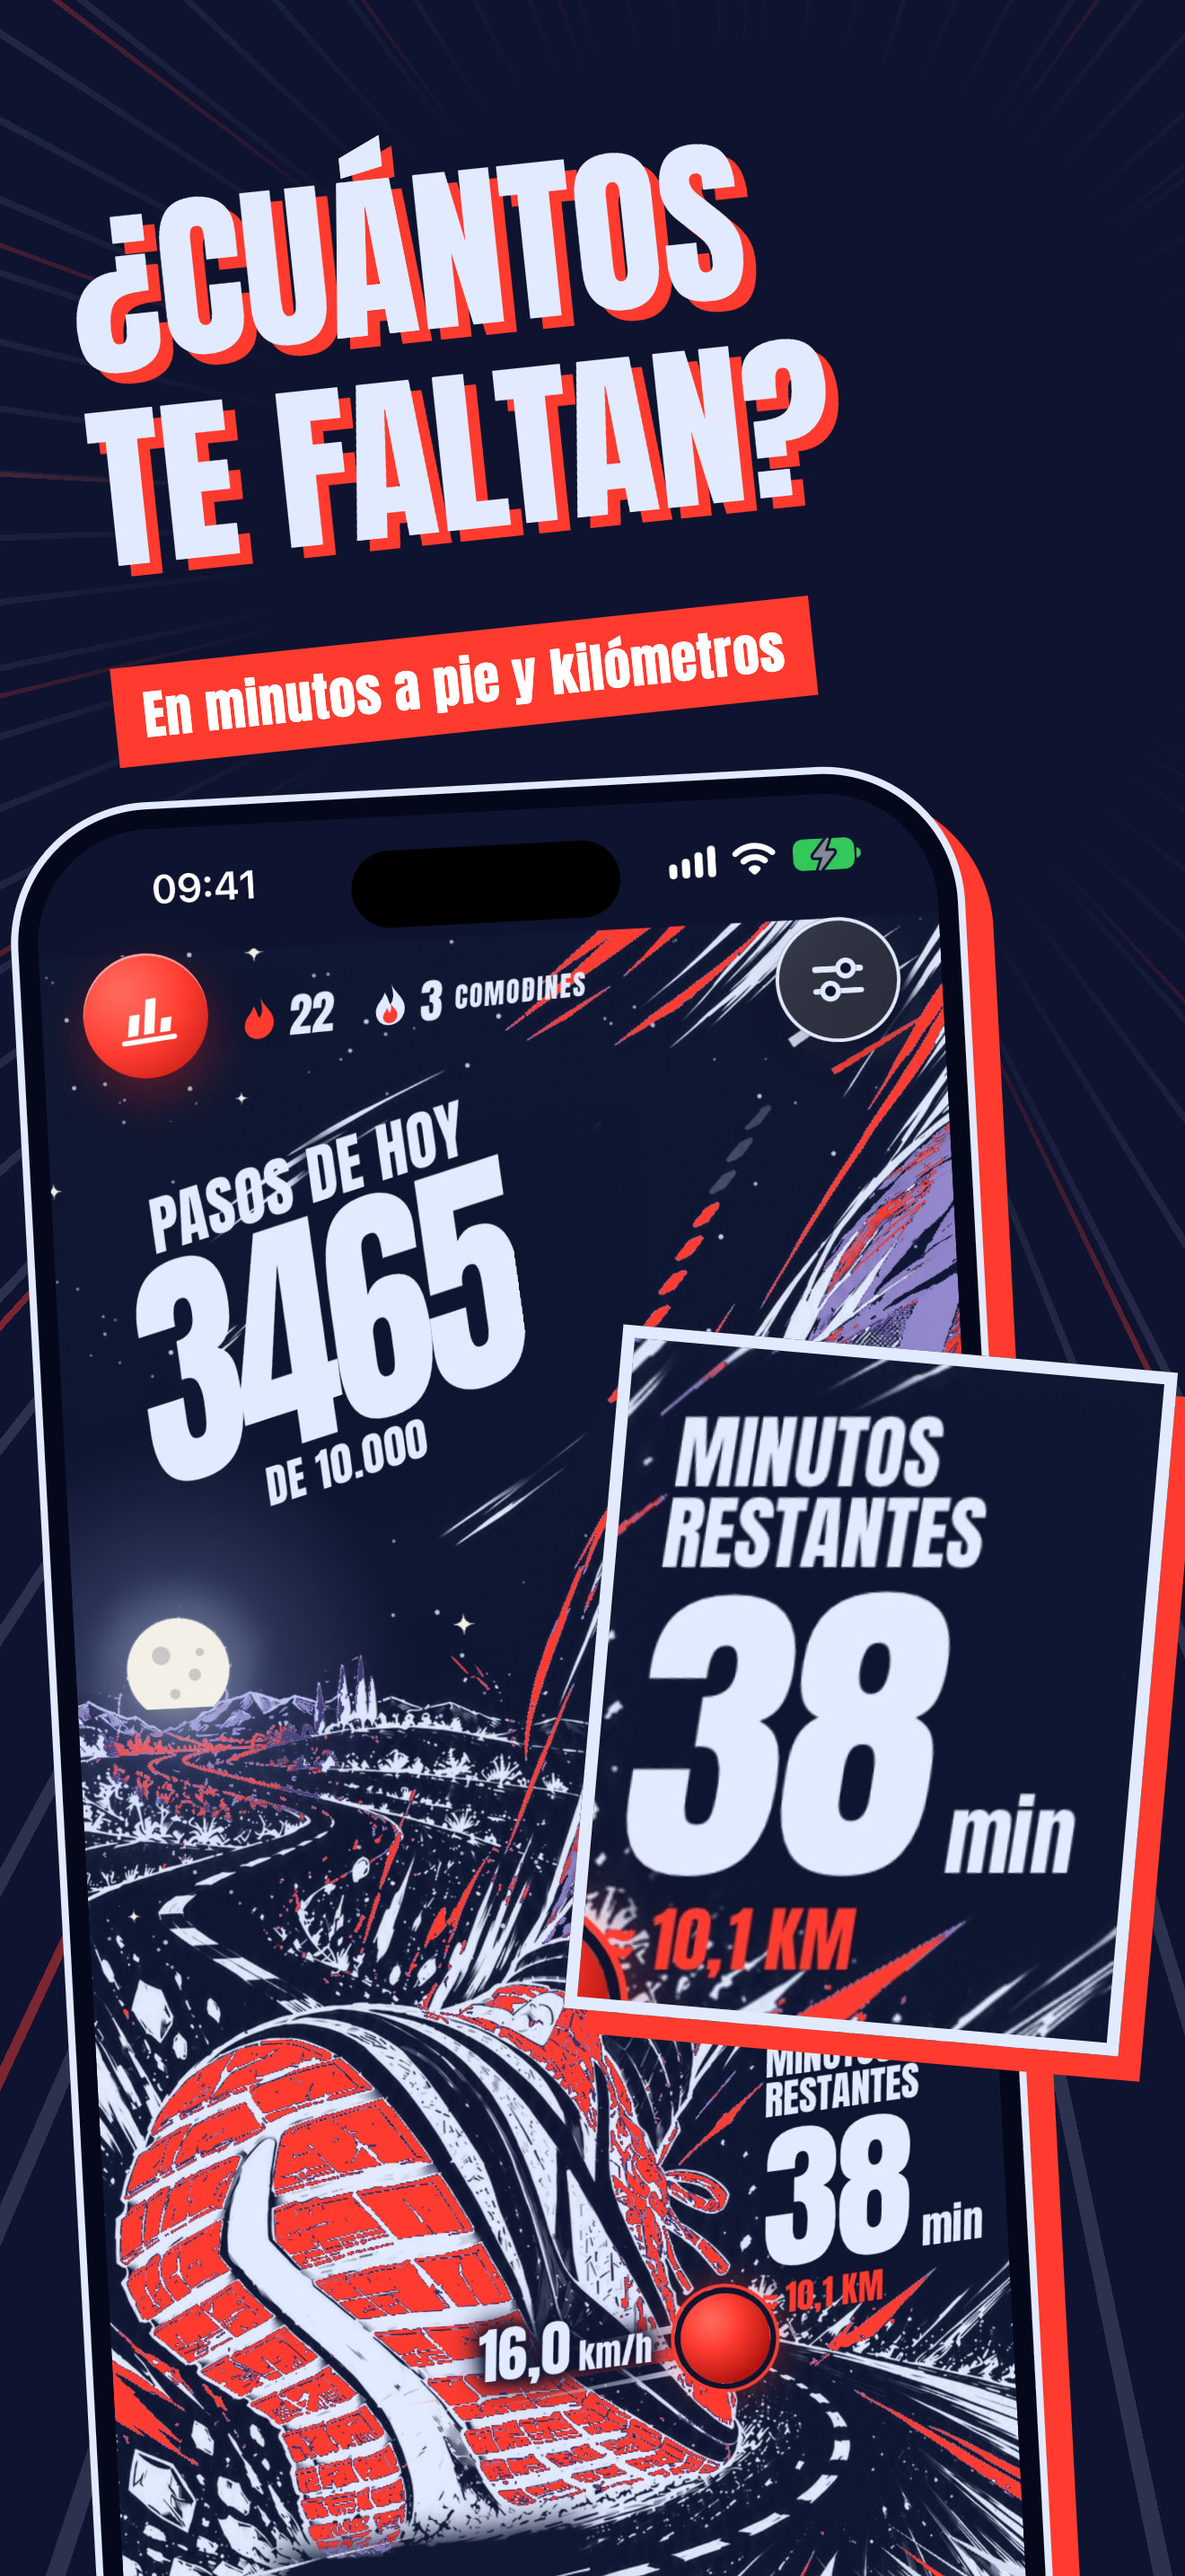
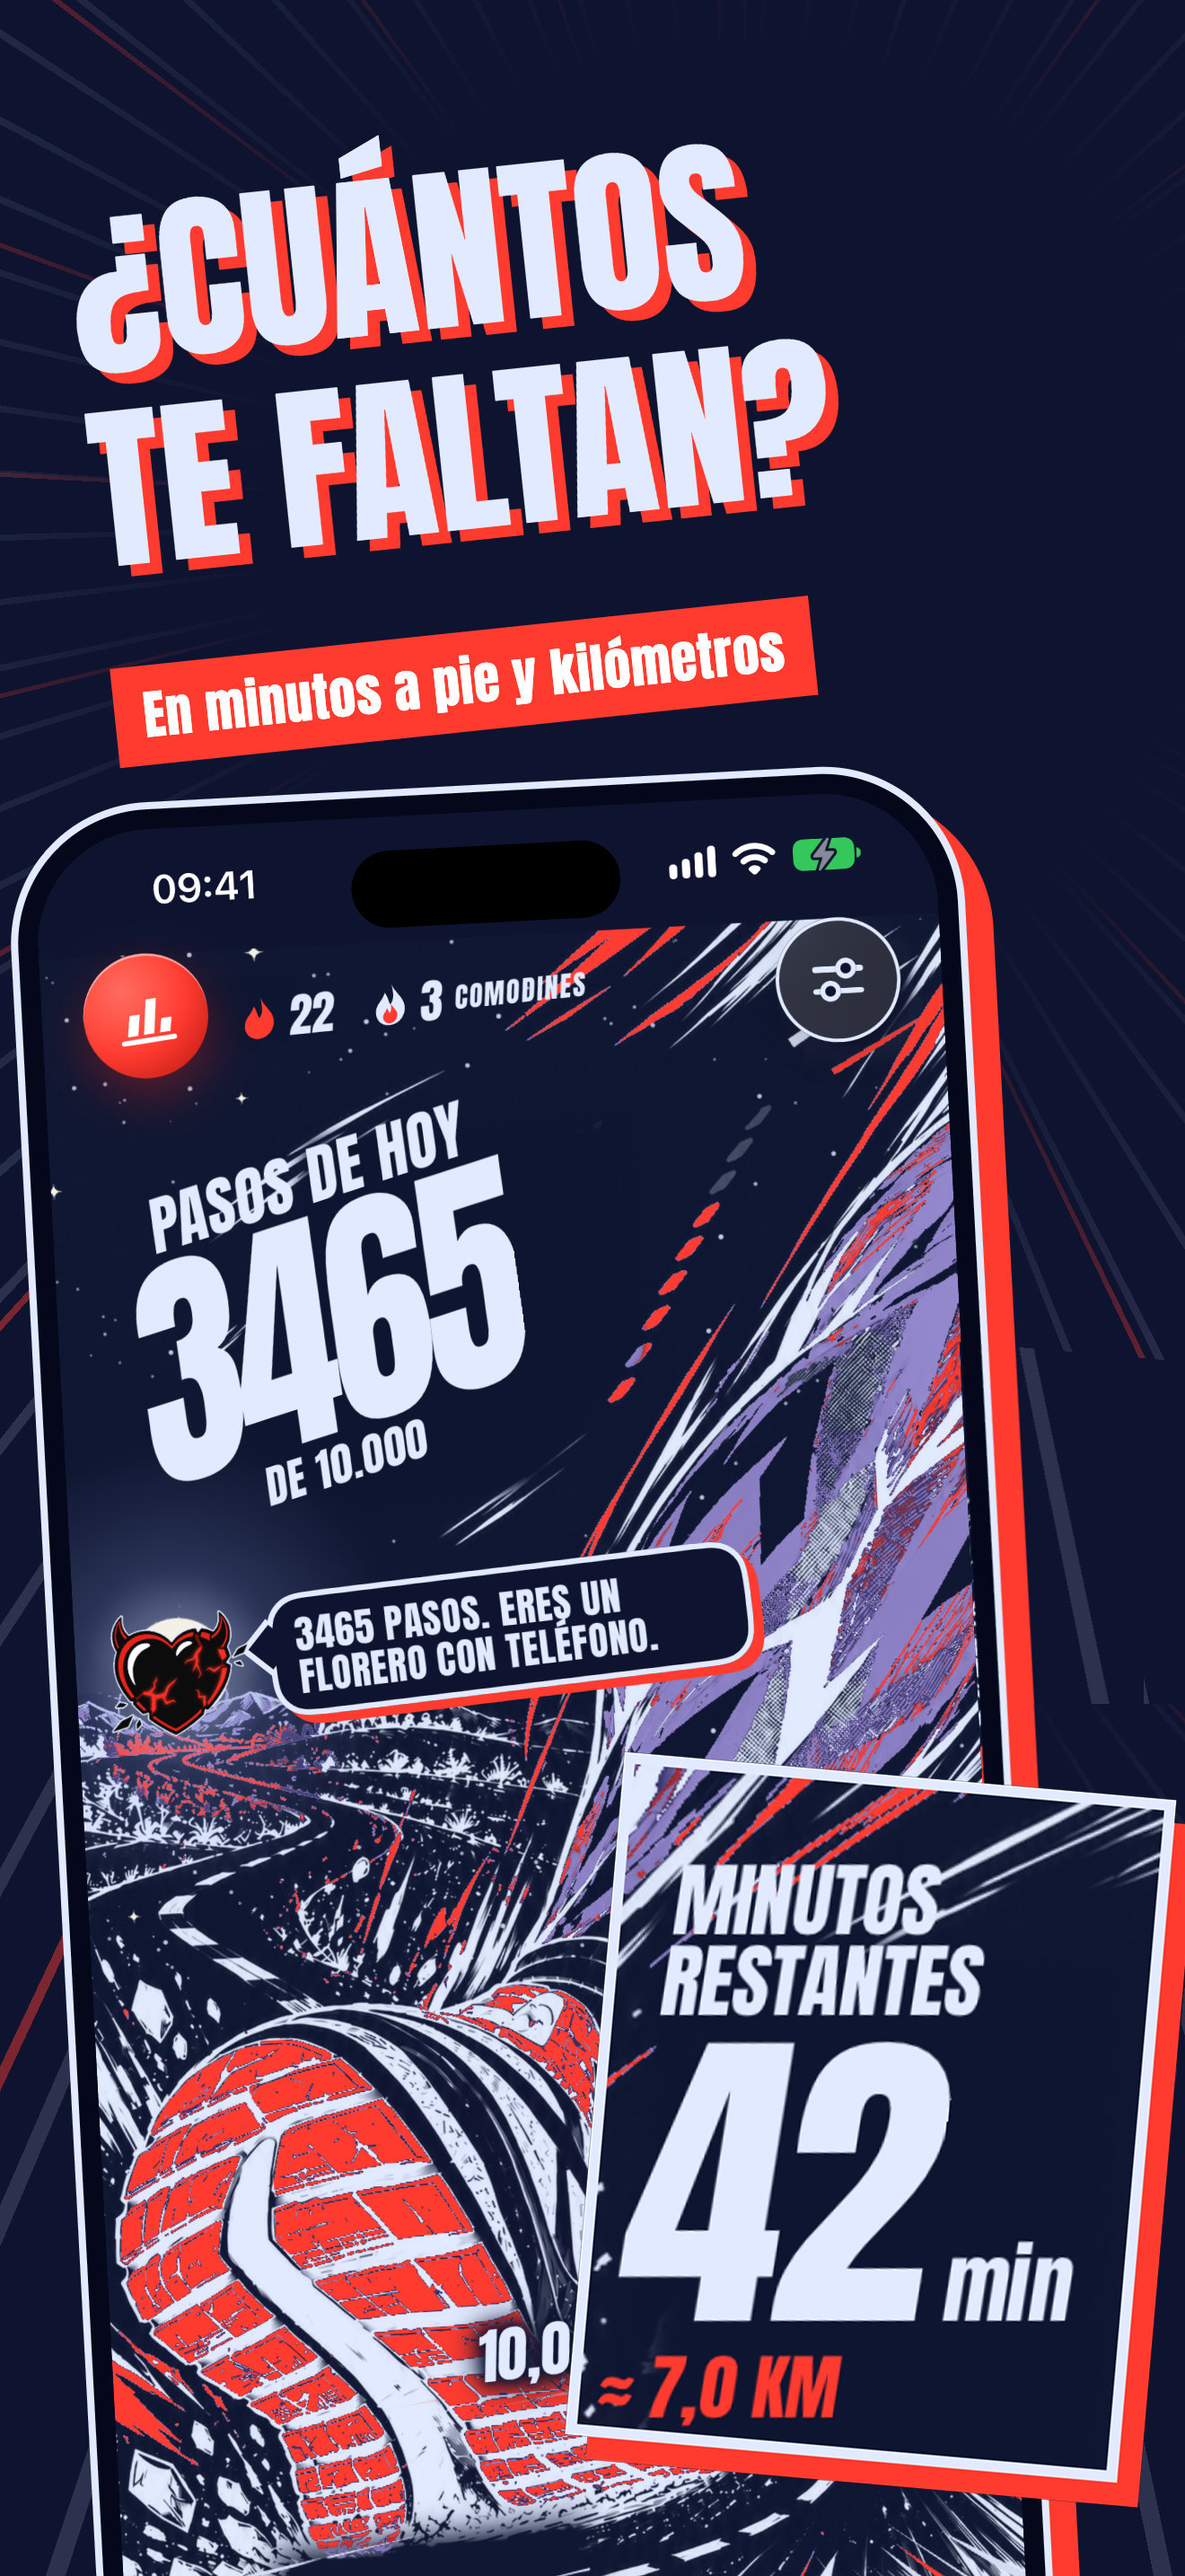
ios: T-030, screenshot dello store 01-03 con il cuore e il fumetto, entro 10 km/h

diff --git a/ios/docs/design/T-030-screenshot/compose.py b/ios/docs/design/T-030-screenshot/compose.py
@@ -1,0 +1,95 @@
+"""T-030: puts the new app screenshots (heart and bubble, <=10 km/h) into the store screenshots 01-03 of each
+language, keeping titles, frames and layout of the approved ones. Transforms measured per image with SIFT."""
+import cv2, numpy as np, math, sys
+from pathlib import Path
+ROOT = Path(sys.argv[1]); SHOTS = Path(sys.argv[2]); OUT = Path(sys.argv[3]); LANGS = sys.argv[4:]
+SW, SH = 1290, 2796
+DOWN = 475  # 02: how much lower the minutes box goes (composite px)
+sift = cv2.SIFT_create(10000)
+
+def fit(comp, src, src_box, comp_box):
+    g = cv2.cvtColor(comp, cv2.COLOR_BGR2GRAY); sg = cv2.cvtColor(src, cv2.COLOR_BGR2GRAY)
+    ms = np.zeros(sg.shape, np.uint8); x0, y0, x1, y1 = src_box; ms[y0:y1, x0:x1] = 255
+    mc = np.zeros(g.shape, np.uint8); x0, y0, x1, y1 = comp_box; mc[y0:y1, x0:x1] = 255
+    k1, d1 = sift.detectAndCompute(sg, ms); k2, d2 = sift.detectAndCompute(g, mc)
+    good = [a for a, b in cv2.BFMatcher().knnMatch(d1, d2, k=2) if a.distance < 0.75 * b.distance]
+    p1 = np.float32([k1[x.queryIdx].pt for x in good]); p2 = np.float32([k2[x.trainIdx].pt for x in good])
+    M, inl = cv2.estimateAffinePartial2D(p1, p2, ransacReprojThreshold=2.0, maxIters=20000)
+    return M, math.hypot(M[0, 0], M[1, 0]), math.degrees(math.atan2(M[1, 0], M[0, 0])), int(inl.sum())
+
+def box_mask(box, M, shape, size=(1700, 3000)):
+    """Composite-space alpha of a source-space box under M."""
+    m = np.zeros((size[1], size[0]), np.float32); x0, y0, x1, y1 = box
+    m[max(y0, 0):y1, max(x0, 0):x1] = 1
+    off = np.float32([[1, 0, 0], [0, 1, 0]])
+    return cv2.warpAffine(m, M, (shape[1], shape[0]), flags=cv2.INTER_LINEAR)
+
+def outside(box, M, shape):
+    """1 outside a source-space box (any coordinates, also negative) under M."""
+    H, W = shape[:2]; Mi = cv2.invertAffineTransform(M)
+    xs, ys = np.meshgrid(np.arange(W), np.arange(H)); sx = Mi[0, 0]*xs + Mi[0, 1]*ys + Mi[0, 2]; sy = Mi[1, 0]*xs + Mi[1, 1]*ys + Mi[1, 2]
+    x0, y0, x1, y1 = box
+    return 1 - ((sx >= x0) & (sx < x1) & (sy >= y0) & (sy < y1)).astype(np.float32)
+
+def paste(comp, src, M, alpha):
+    w = cv2.warpAffine(src, M, (comp.shape[1], comp.shape[0]), flags=cv2.INTER_AREA if M[0,0] < 1 else cv2.INTER_CUBIC)
+    a = alpha[..., None]
+    return (comp * (1 - a) + w * a).round().clip(0, 255).astype(np.uint8)
+
+def check(tag, s, ang, n, s_exp, ang_exp):
+    ok = abs(s - s_exp) < 0.01 and abs(ang - ang_exp) < 0.3 and n > 40
+    print(f'  {tag}: scala {s:.4f} angolo {ang:+.2f} punti {n}' + ('' if ok else '  <-- DA CONTROLLARE'))
+    if not ok: raise SystemExit(f'{tag}: trasformazione inattesa')
+
+for L in LANGS:
+    print(L); src = ROOT / 'store/screenshots' / L; sh = SHOTS / L; out = OUT / L; out.mkdir(parents=True, exist_ok=True)
+    # 01: Home day 4 km/h in the phone
+    c = cv2.imread(str(src / '01.jpg')); n = cv2.imread(str(sh / 'home-4kmh-day.png'))
+    M, s, a, k = fit(c, n, (0, 170, SW, 1000), (0, 700, 1320, 2868)); check('01 schermo', s, a, k, 0.778, -2.0)
+    c = paste(c, n, M, box_mask((3, 170, SW - 3, SH), M, c.shape))
+    cv2.imwrite(str(out / '01.png'), c)
+    # 02: Home night 10 km/h, then the zoomed «minutes left» box, moved down so it no longer covers the bubble
+    c = cv2.imread(str(src / '02.jpg')); n = cv2.imread(str(sh / 'home-10kmh-night.png'))
+    M, s, a, k = fit(c, n, (0, 170, SW, 1000), (0, 700, 1320, 2868)); check('02 schermo', s, a, k, 0.778, -3.0)
+    Mc, s2, a2, k2 = fit(c, n, (700, 1600, SW, 2400), (720, 1500, 1290, 2240)); check('02 riquadro', s2, a2, k2, 1.600, 5.0)
+    screen = box_mask((3, 170, SW - 3, SH), M, c.shape)
+    # 1. the old box outside the screen: filled with the phone's edge and background 850 px further along the
+    #    edge (its upper half from below, its lower half from above, both outside the old box)
+    old = 1 - outside((900, 1640, 1340, 2150), Mc, c.shape)
+    unit = M[:, 1] / np.hypot(*M[:, 1])
+    H, W = c.shape[:2]; xs, ys = np.meshgrid(np.arange(W, dtype=np.float32), np.arange(H, dtype=np.float32))
+    ys_box = ys[old > 0.5]; mid = (ys_box.min() + ys_box.max()) / 2
+    sign = np.where(ys < mid, 1, -1).astype(np.float32) * 850
+    sx = xs + sign * np.float32(unit[0])
+    shifted = cv2.remap(c, sx, ys + sign * np.float32(unit[1]), cv2.INTER_LINEAR)
+    straight = cv2.remap(c, xs, ys + sign, cv2.INTER_LINEAR)       # past the canvas edge: straight along y
+    shifted = np.where((sx > W - 2)[..., None], straight, shifted)
+    a = (old * (1 - screen))[..., None]
+    c = (c * (1 - a) + shifted * a).round().astype(np.uint8)
+    # 2. the screen
+    c = paste(c, n, M, screen)
+    # 3. the box, drawn again: red shadow, light border, content (the app's minutes, 15 px lower inside the box)
+    ox, oy, PW, PH = 880, 1600, 480, 580
+    patch = np.zeros((PH, PW, 3), np.uint8); alpha = np.zeros((PH, PW), np.float32)
+    def rect(x0, y0, x1, y1, color):
+        patch[y0 - oy:y1 - oy, x0 - ox:x1 - ox] = color; alpha[y0 - oy:y1 - oy, x0 - ox:x1 - ox] = 1
+    rect(912 + 16, 1649 + 16, 1298 + 16, 2126 + 16, (48, 59, 255))
+    rect(912, 1649, 1298, 2126, (255, 234, 226))
+    d = 15
+    patch[1657 - oy:2118 - oy, 920 - ox:1290 - ox] = n[1657 - d:2118 - d, 920:1290]
+    T = np.float64([[1, 0, ox], [0, 1, oy], [0, 0, 1]])
+    Mn = np.vstack([Mc, [0, 0, 1]]) @ T; Mn = Mn[:2].copy(); Mn[1, 2] += DOWN
+    w = cv2.warpAffine(patch, Mn, (W, H), flags=cv2.INTER_CUBIC); al = cv2.warpAffine(alpha, Mn, (W, H), flags=cv2.INTER_LINEAR)[..., None]
+    c = (c * (1 - al) + w * al).round().clip(0, 255).astype(np.uint8)
+    cv2.imwrite(str(out / '02.png'), c)
+    # 03: two crops of the road, 4 km/h and 10 km/h
+    c0 = cv2.imread(str(src / '03.jpg')); c = c0.copy()
+    na = cv2.imread(str(sh / 'home-4kmh-day.png')); nb = cv2.imread(str(sh / 'home-10kmh-day.png'))
+    Ma, s, a, k = fit(c0, na, (0, 1500, SW, SH), (0, 780, 1320, 1820)); check('03 ritaglio 1', s, a, k, 0.893, -2.0)
+    Mb, s, a, k = fit(c0, nb, (0, 1500, SW, SH), (0, 1820, 1320, 2868)); check('03 ritaglio 2', s, a, k, 0.893, 2.0)
+    # the app's minutes now sit higher: the window on the screenshot moves up by D, so they keep their margin
+    D = 70; crop = (0, 1715, SW, 2798)
+    sh_ = lambda Mx: (np.vstack([Mx, [0, 0, 1]]) @ np.float64([[1, 0, 0], [0, 1, D], [0, 0, 1]]))[:2]
+    c = paste(c, na, sh_(Ma), box_mask((0, 1715 - D, SW, 2798 - D), sh_(Ma), c.shape) * outside((-40, 1690, 1360, 2860), Mb, c.shape))
+    c = paste(c, nb, sh_(Mb), box_mask((0, 1715 - D, SW, 2798 - D), sh_(Mb), c.shape))
+    cv2.imwrite(str(out / '03.png'), c)

diff --git a/ios/docs/design/T-030-screenshot/primadopo.py b/ios/docs/design/T-030-screenshot/primadopo.py
@@ -1,0 +1,14 @@
+import sys
+from PIL import Image, ImageDraw, ImageFont
+old, new, out = sys.argv[1], sys.argv[2], sys.argv[3]
+w, h, g = 600, 1304, 24
+font = ImageFont.truetype('/System/Library/Fonts/Supplemental/Arial Bold.ttf', 44)
+c = Image.new('RGB', (3 * w + 2 * g + 80, 2 * h + g + 140), '#F3F1EC'); d = ImageDraw.Draw(c)
+for r, (lab, folder) in enumerate([('PRIMA (oggi sullo store)', old), ('DOPO (1.3)', new)]):
+    y = 20 + r * (h + 70 + g)
+    d.text((40, y), lab, fill='#E5231B' if r else '#141414', font=font)
+    for i in range(3):
+        ext = 'jpg' if r == 0 else 'png'
+        im = Image.open(f'{folder}/0{i+1}.{ext}').convert('RGB').resize((w, h), Image.LANCZOS)
+        c.paste(im, (40 + i * (w + g), y + 60))
+c.save(out, quality=88)

diff --git a/ios/tasks/T-030-screenshot-store-1.3.md b/ios/tasks/T-030-screenshot-store-1.3.md
@@ -1,5 +1,5 @@
 # T-030 Screenshot dello store per la 1.3
-**Assegnato a:** Designer **Base:** `main` dopo il merge della #56 **Stato:** assegnato 19/11/2026
+**Assegnato a:** Designer **Base:** `main` dopo il merge della #56 **Stato:** consegnato 19/11/2026 (PR non unita)
 
 ## Perché
 Con la 1.3 la Home di serie mostra il cuore e il fumetto (D-047): gli screenshot 01 e 02 non corrispondono più
@@ -24,3 +24,23 @@ Solo SSD; file pesanti in `/Volumes/SSD/Temp/NEAT/`; a fine turno niente acceso.
 Non caricare niente su App Store Connect, nessun commit `[store…]`. Non scrivere a William.
 
 ## Esito
+**19/11/2026, Designer.** Rifatti 01, 02 e 03 nelle 10 lingue (`store/screenshots/<lingua>/01…03.jpg`); 04–06 non toccati.
+- **Dall'app vera:** build Debug di `main` dopo la #56, iPhone 15 Pro Max iOS 27 (come gli originali), 3.465 passi su
+  10.000, ore 9:41. Per fissare la battuta: `-stepteller.voice.bubble` passato all'avvio (dominio degli argomenti,
+  nessuna modifica al codice). Prima prova scritta nelle preferenze: in 8 lingue l'app la sostituiva con un'altra
+  battuta, anche con parolacce, quindi scartata.
+- **Battuta:** N007 in tutte le lingue («3.465 passi. Sei un soprammobile con il telefono.»), senza parolacce in
+  nessuna, controllata sulle 30 schermate.
+- **Velocità:** 01 e 03 in alto 4,0 km/h (2,5 mph in inglese); 02 e 03 in basso 10,0 km/h (6,0 mph): 42 min, 7,0 km.
+- **Metodo:** titoli, cornici e impaginazione restano quelli approvati. Le schermate nuove sono messe al posto delle
+  vecchie con la stessa scala e la stessa rotazione, misurate per ogni immagine (SIFT); JPEG con le impostazioni di
+  `scripts/store_screenshots.py`. Gli script stanno in `docs/design/T-030-screenshot/`.
+- **Due ritocchi:** in 02 il riquadro ingrandito dei minuti è sceso di circa 470 px, perché copriva il fumetto; in 03
+  la finestra sulla strada è salita di 70 px, perché nell'app nuova «MINUTI MANCANTI» sta più in alto e veniva
+  tagliato.
+- **Prima/dopo per William:** `tasks/T-030-prima-dopo-it.jpg`.
+- **Titolo di 01, proposta (non scritta negli screenshot):** il titolo resta; la riga piccola potrebbe diventare
+  «Datti un obiettivo. NEAT ti tiene d'occhio.» al posto di «Datti un obiettivo e controllalo». Serve la tua
+  approvazione e poi la traduzione nelle 9 lingue.
+- es-MX e fr-CA riusano es e fr come prima. Niente su App Store Connect.
+
